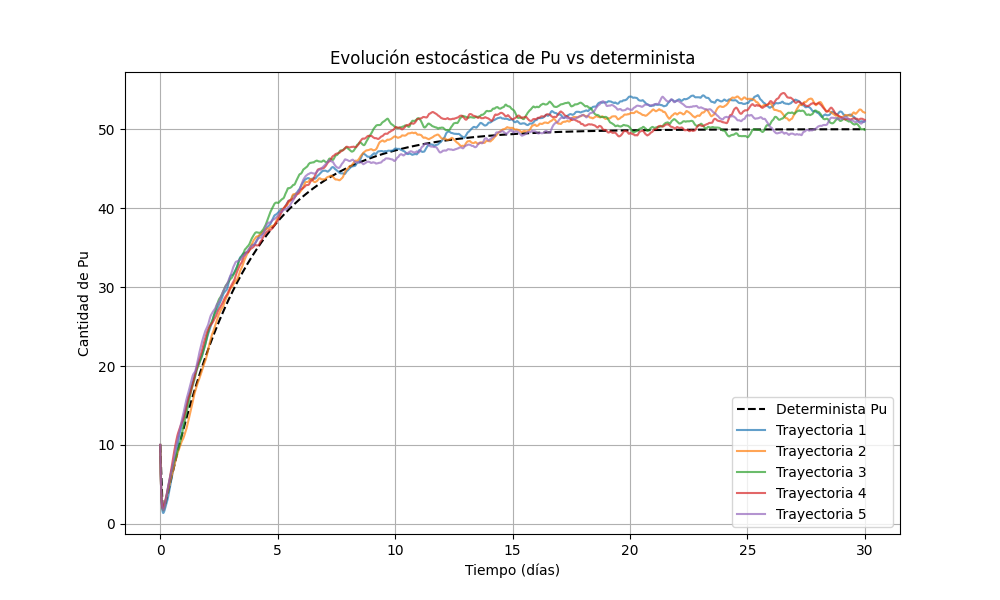
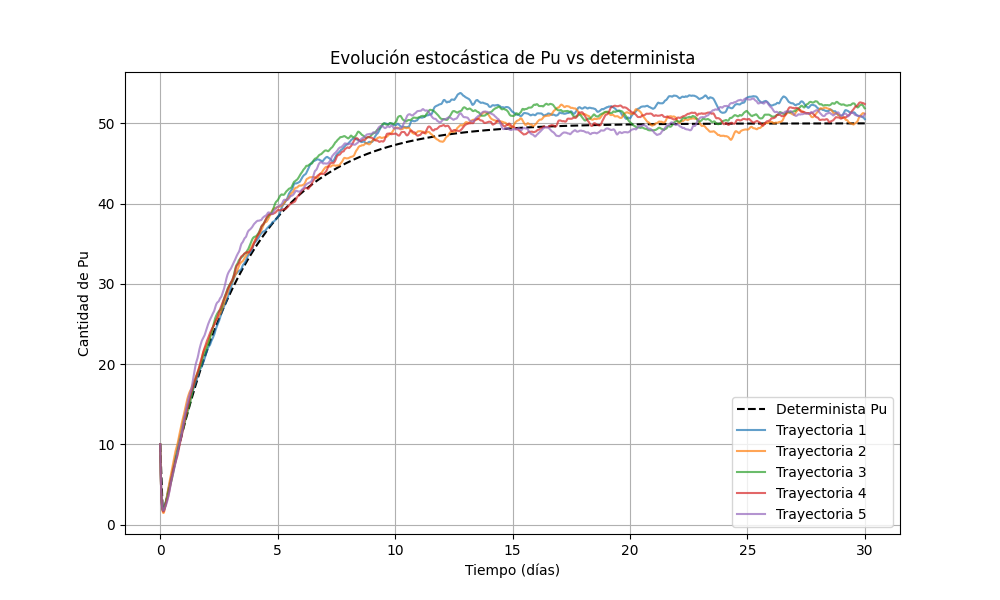
cambios codigo 2c

Changed region(s): [[0.093, 0.15, 0.899, 0.84], [0.124, 0.87, 0.713, 0.9], [0.093, 0.18, 0.124, 0.24]]

diff --git a/Taller 5/Punto 2.py b/Taller 5/Punto 2.py
@@ -1,5 +1,4 @@
 #2a. Sistema determinista
-
 import numpy as np
 from scipy.integrate import solve_ivp
 import matplotlib.pyplot as plt
@@ -188,90 +187,40 @@ def simulacion_gillespie(tiempo_simulacion, A, lambda_U, lambda_Np, B,
 
     return tiempos[:indice], valores_U[:indice], valores_Np[:indice], valores_Pu[:indice]
 # Parámetros 
-A = 1.0
-lambda_U = 0.1
-lambda_Np = 0.05
-B = 0.1
-
 tiempo_simulacion = 30
 num_trayectorias = 5
 
-plt.figure(figsize=(10,6))
+fig, axs = plt.subplots(3, 1, figsize=(10, 12), sharex=True)
+variables = ["Uranio-239 (U)", "Neptunio-239 (Np)", "Plutonio-239 (Pu)"]
 
+# Solución determinista
+axs[0].plot(sol.t, sol.y[0], 'k-', lw=2, label="Determinista")
+axs[1].plot(sol.t, sol.y[1], 'k-', lw=2, label="Determinista")
+axs[2].plot(sol.t, sol.y[2], 'k-', lw=2, label="Determinista")
+
+# Trayectorias estocásticas
 for i in range(num_trayectorias):
     tiempos, U, Np, Pu = simulacion_gillespie(tiempo_simulacion, A, lambda_U, lambda_Np, B)
-    plt.step(tiempos, Pu, where="post", label=f"Trayectoria {i+1}")
+    axs[0].step(tiempos, U, where="post", alpha=0.7)
+    axs[1].step(tiempos, Np, where="post", alpha=0.7)
+    axs[2].step(tiempos, Pu, where="post", alpha=0.7)
 
-plt.xlabel("Tiempo")
-plt.ylabel("Número de Pu")
-plt.title("Simulaciones estocásticas con algoritmo de Gillespie")
-plt.legend()
+# Ajustes
+for i, ax in enumerate(axs):
+    ax.set_ylabel(variables[i])
+    ax.legend()
+    ax.grid()
+
+axs[2].set_xlabel("Tiempo (días)")
+plt.suptitle("2.c. Gillespie vs Solución determinista")
+plt.tight_layout()
 plt.savefig("Taller 5/2.c.png")
+
 
 # -------- Parte 2d --------
 
-import numpy as np
-import random
-import matplotlib.pyplot as plt
-from numba import njit
+N = 1000  # Número de simulaciones
 
-# Parámetros
-A = 1000           # Tasa de creación de U
-lambda_U = 0.1     # Tasa de decaimiento de U
-lambda_Np = 0.05   # Tasa de decaimiento de Np
-B = 0.1            # Tasa de extracción de Pu
-N = 1000           # Número de trayectorias
-tiempo_simulacion = 30  # Tiempo de simulación
-
-# Sistema de reacciones (R)
-R = np.array([
-    [1, 0, 0],   # Creación de U
-    [-1, 1, 0],  # U -> Np
-    [0, -1, 1],  # Np -> Pu
-    [0, 0, -1]   # Decaimiento de Pu
-])
-
-@njit
-def simulacion_gillespie(tiempo_simulacion, A, lambda_U, lambda_Np, B, 
-                         U0=10, Np0=10, Pu0=10, max_pasos=200000):
-    t_old = 0.0
-    Y_old = np.array([U0, Np0, Pu0])  # Estado inicial
-
-    tiempos = np.zeros(max_pasos)
-    valores_U = np.zeros(max_pasos)
-    valores_Np = np.zeros(max_pasos)
-    valores_Pu = np.zeros(max_pasos)
-
-    indice = 0
-
-    while t_old < tiempo_simulacion and indice < max_pasos - 1:
-        tasa_creacion = A
-        tasa_U = Y_old[0] * lambda_U
-        tasa_Np = Y_old[1] * lambda_Np
-        tasa_Pu = Y_old[2] * B
-        tasas = np.array([tasa_creacion, tasa_U, tasa_Np, tasa_Pu])
-
-        if tasas.sum() == 0:
-            break
-
-        tau = np.random.exponential(1 / tasas.sum())
-        probabilidades = tasas / tasas.sum()
-        r_index = np.searchsorted(np.cumsum(probabilidades), np.random.rand())
-        r = R[r_index]
-
-        Y_new = Y_old + r
-        t_new = t_old + tau
-
-        tiempos[indice] = t_new
-        valores_U[indice] = Y_new[0]
-        valores_Np[indice] = Y_new[1]
-        valores_Pu[indice] = Y_new[2]
-
-        Y_old = Y_new
-        t_old = t_new
-        indice += 1
-
-    return tiempos[:indice], valores_U[:indice], valores_Np[:indice], valores_Pu[:indice]
 
 # Simulación de las trayectorias
 trayectorias_pu = []
